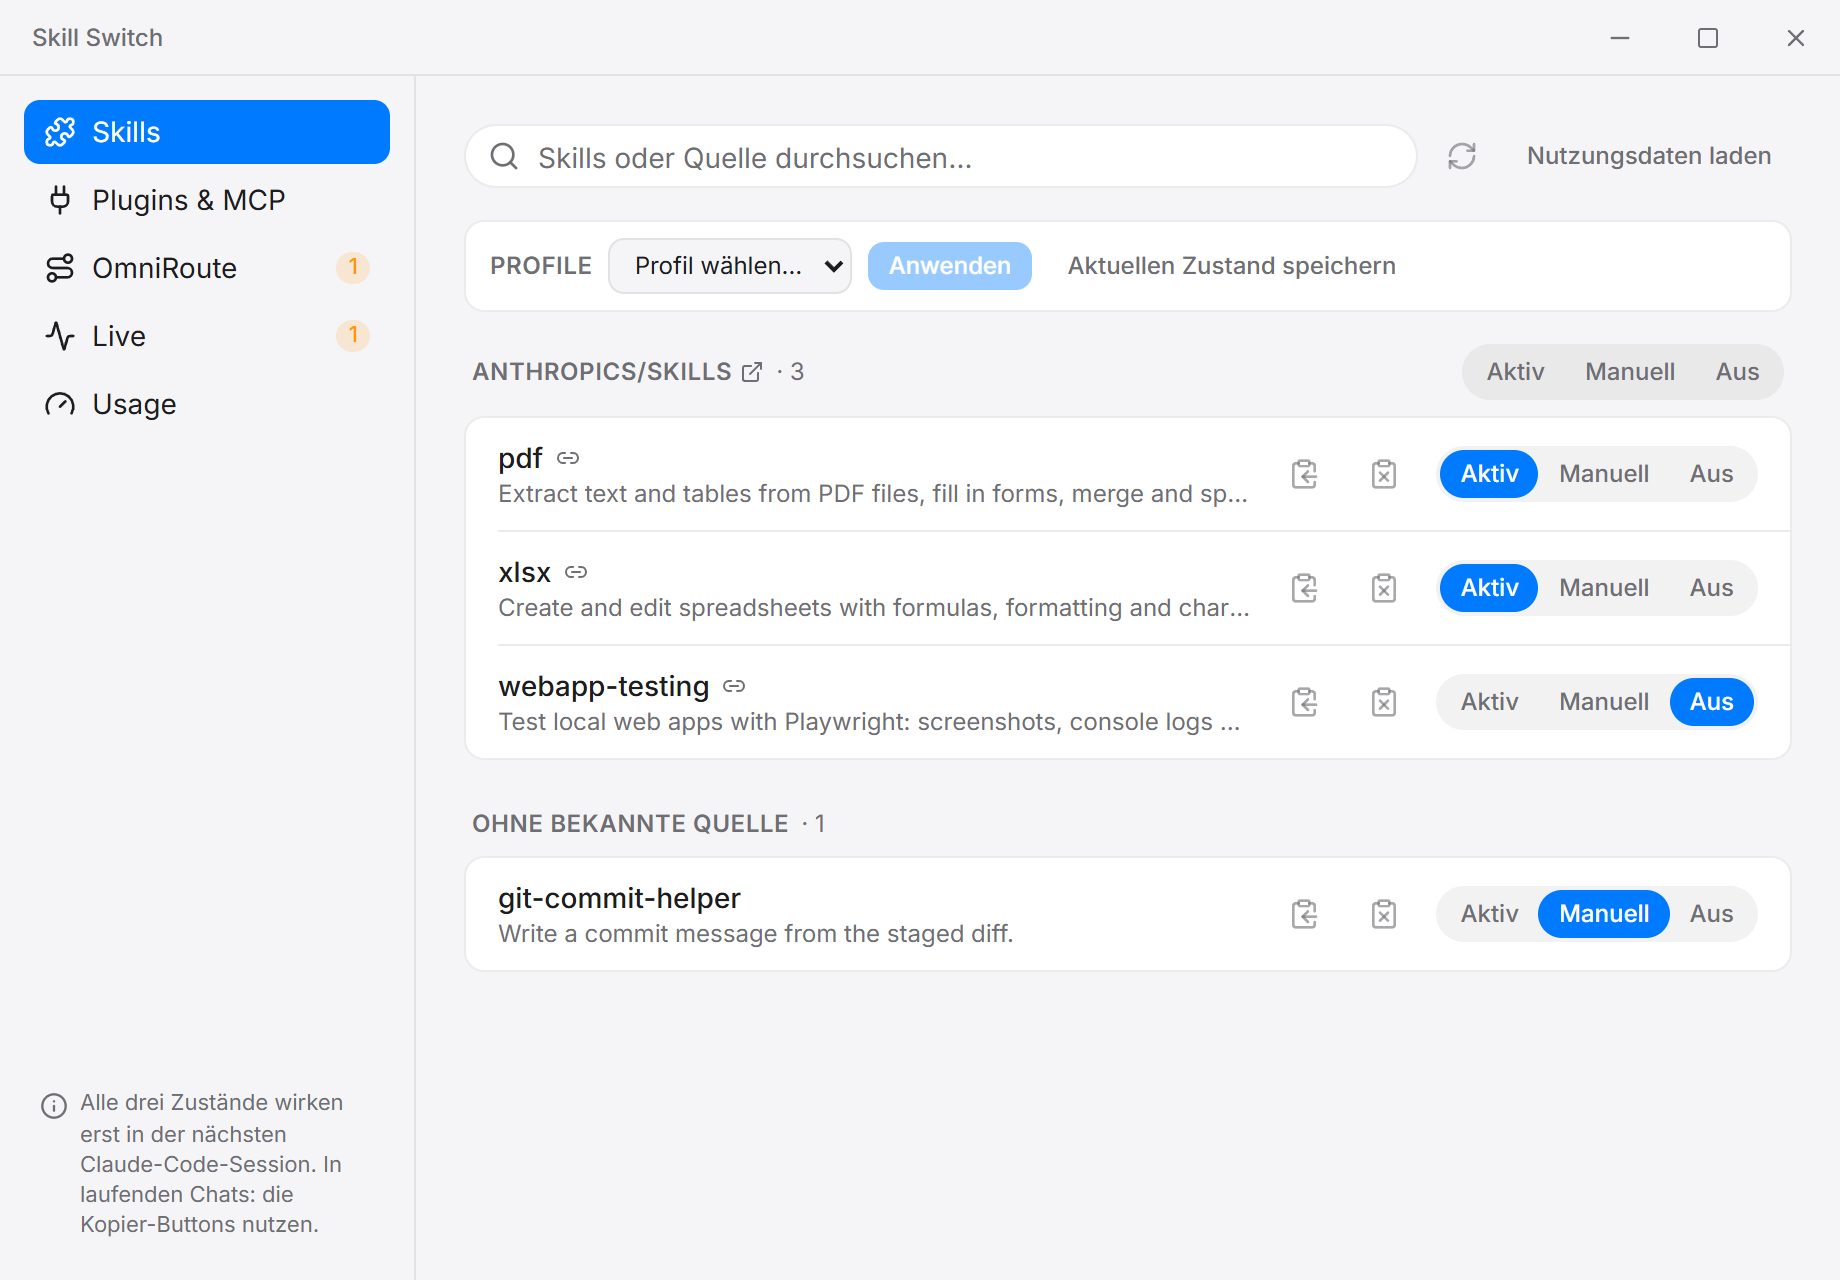
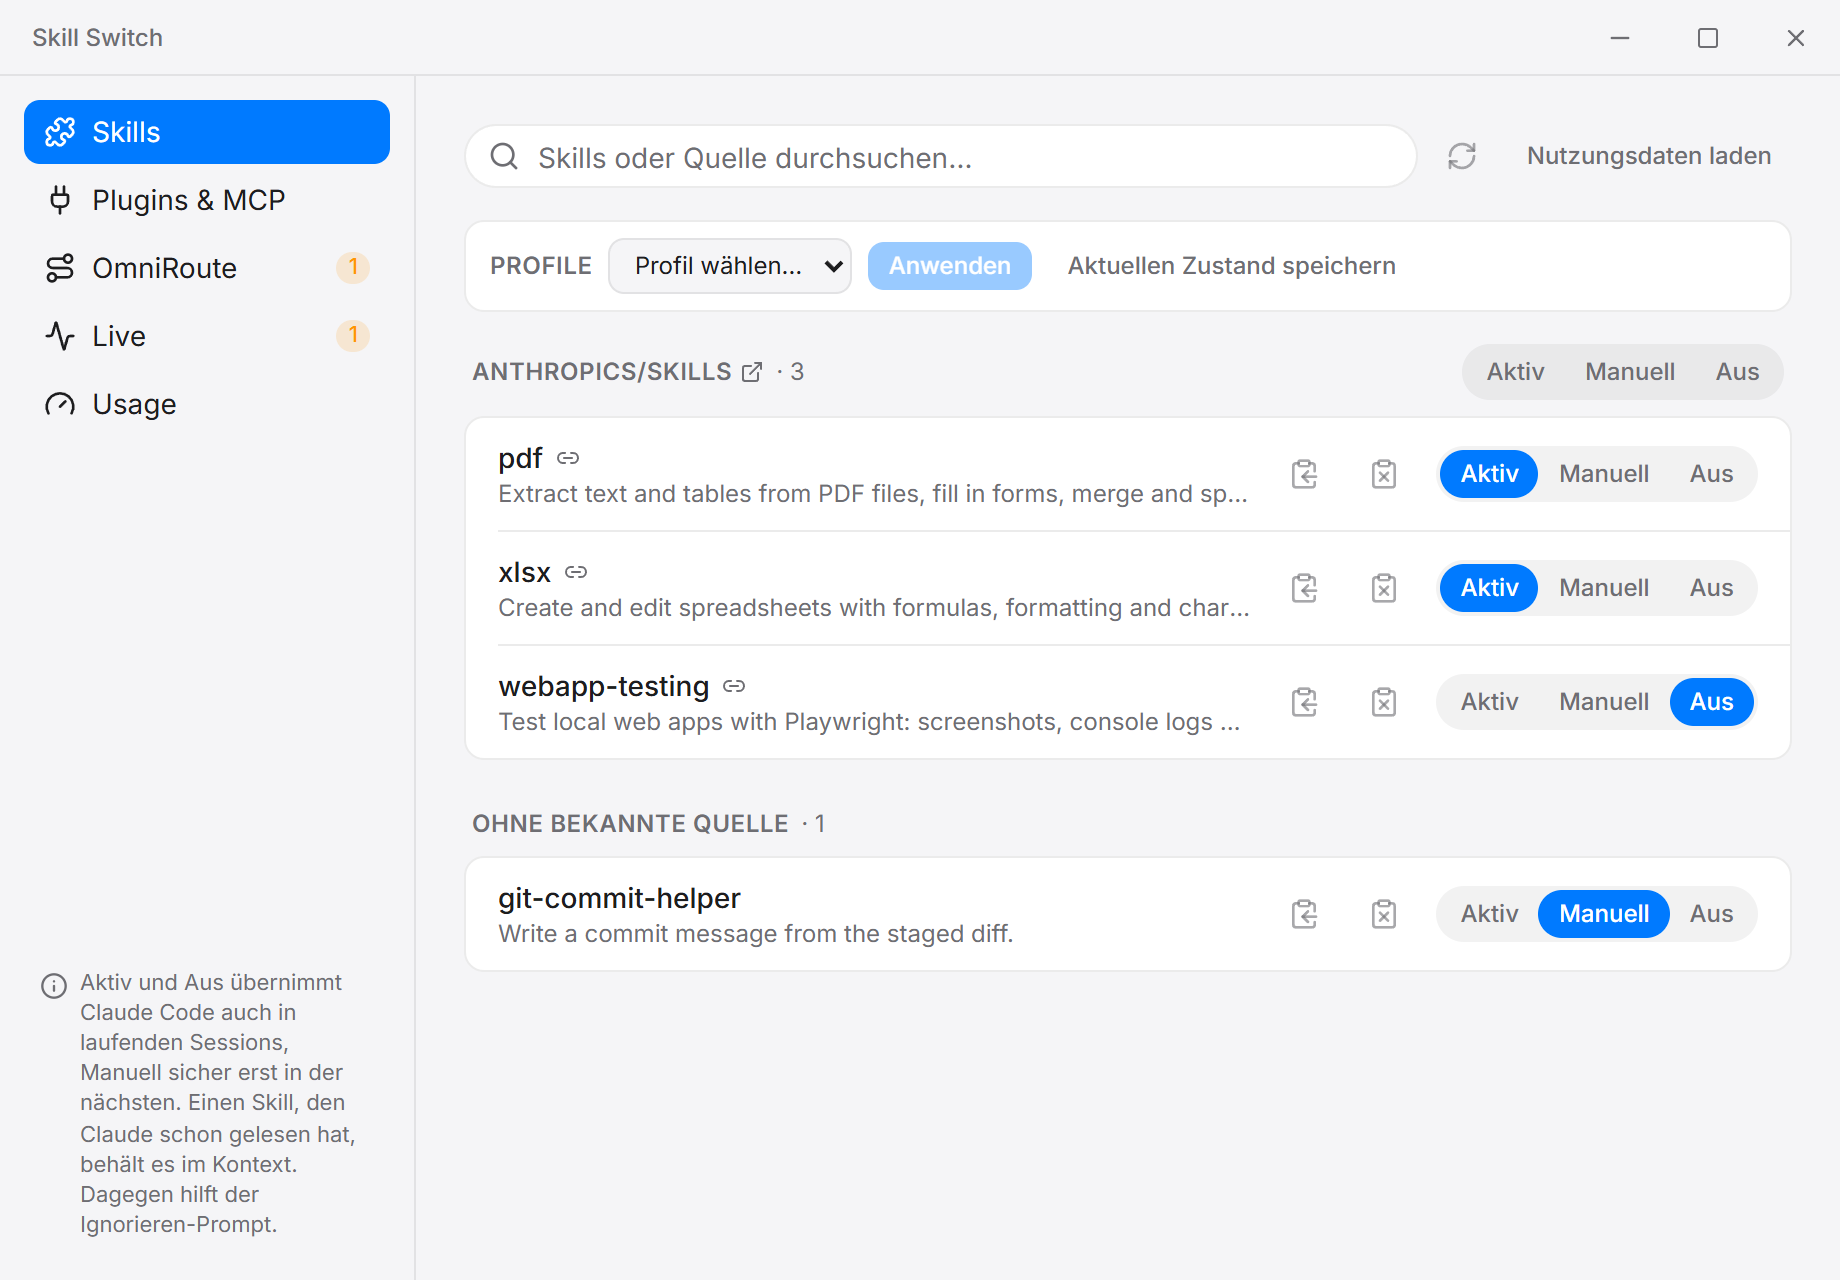
Correct the session and privacy hints
Claude Code watches the skill folders, so Aktiv and Aus reach running sessions. The usage parser reads whole transcript lines and keeps only the evaluated fields.

Changed region(s): [[0.031, 0.75, 0.1859, 0.9688]]

diff --git a/src/App.tsx b/src/App.tsx
@@ -57,7 +57,7 @@ const appWindow = "__TAURI_INTERNALS__" in window ? getCurrentWindow() : null
 
 const SIDEBAR_NOTE: Partial<Record<View, string>> = {
   skills:
-    "Alle drei Zustände wirken erst in der nächsten Claude-Code-Session. In laufenden Chats: die Kopier-Buttons nutzen.",
+    "Aktiv und Aus übernimmt Claude Code auch in laufenden Sessions, Manuell sicher erst in der nächsten. Einen Skill, den Claude schon gelesen hat, behält es im Kontext. Dagegen hilft der Ignorieren-Prompt.",
   omniroute: "Gilt nur für Terminal-Sessions in diesem Ordner. Die Desktop-App läuft immer über Anthropic.",
   usage:
     "Prozent-Anteile sind eine Heuristik nach API-Preisverhältnis. Wie Anthropic Cache-Reads gegen das Abo-Limit gewichtet, ist lokal nicht sichtbar.",

diff --git a/src/components/usage-panel.tsx b/src/components/usage-panel.tsx
@@ -34,8 +34,9 @@ export function UsagePanel({ report, loading, error, onRefresh }: UsagePanelProp
               : "Claude-Code-Nutzung"}
           </p>
           <p className="text-xs text-muted-foreground">
-            Liest nur Metadaten aus ~/.claude/projects (Token-Zahlen, Modell, Tool-Namen). Kein Prompt-Text, nichts wird
-            gespeichert oder gesendet.
+            Wertet die Transcripts in ~/.claude/projects nach Token-Zahlen, Modell, Effort, Tools, Skills und Projekt
+            aus. Die Texte von Prompts, Antworten und Tool-Ausgaben werden dabei mitgelesen, aber weder gespeichert noch
+            angezeigt noch gesendet.
           </p>
         </div>
         <button

diff --git a/src/components/omniroute-panel.tsx b/src/components/omniroute-panel.tsx
@@ -17,7 +17,7 @@ import { Tooltip, TooltipContent, TooltipTrigger } from "@/components/ui/tooltip
 import { cn } from "@/lib/utils"
 
 const WARNING_TEXT =
-  "In markierten Projekten geht mein Quellcode an fremde Anbieter. Nicht für Kunden- oder Privatprojekte."
+  "In Projekten, die über OmniRoute laufen, geht der Quellcode an fremde Anbieter. Für Kundenprojekte und vertraulichen Code ist das nicht geeignet."
 
 type OmniroutePanelProps = {
   omni: OmniState | null

diff --git a/README.md b/README.md
@@ -23,11 +23,11 @@ The [latest release](https://github.com/messlatte/skill-switch/releases/latest) 
 - **Groups:** if `~/.agents/.skill-lock.json` exists, skills are grouped by the repo they were installed from, with one switch per group.
 - **Profiles:** save the current skill states under a name and apply them again later.
 - **Plugins & MCP:** read-only list of installed plugins and MCP servers. Once the usage data is loaded, it shows how often each MCP server was used and when it was last used.
-- **Usage:** reads the local transcripts in `~/.claude/projects` and shows tokens per day, project and tool. It keeps token counts, models, tool and skill names and timestamps. Prompt text is parsed with each line but not kept, shown or sent anywhere.
+- **Usage:** reads the local transcripts in `~/.claude/projects` and shows tokens per day, project and tool. It evaluates token counts, model, effort, tools, skills and project. The text of prompts, responses and tool output is read along with each line but not stored, shown or sent.
 - **Live:** running sessions with their current context size and a hint when to compact. Optional Windows notifications, and a hook that warns inside Claude Code shortly before auto-compact.
 - **OmniRoute:** sends the Claude Code traffic of selected projects through a local [OmniRoute](https://github.com/cheaper-inference/OmniRoute) proxy by writing to each project's `.claude/settings.local.json`.
 
-Claude Code reads skills and settings when a session starts, so changes apply to new sessions.
+Aktiv and Aus reach running sessions too, because Claude Code watches the skill folders ([docs](https://code.claude.com/docs/en/skills)). For Manuell, a new session is the safe bet. A skill that Claude has already read stays in that session's context. The two copy buttons next to each skill put a prompt on the clipboard that tells a running session to use or to ignore that skill.
 
 ## How it works
 
